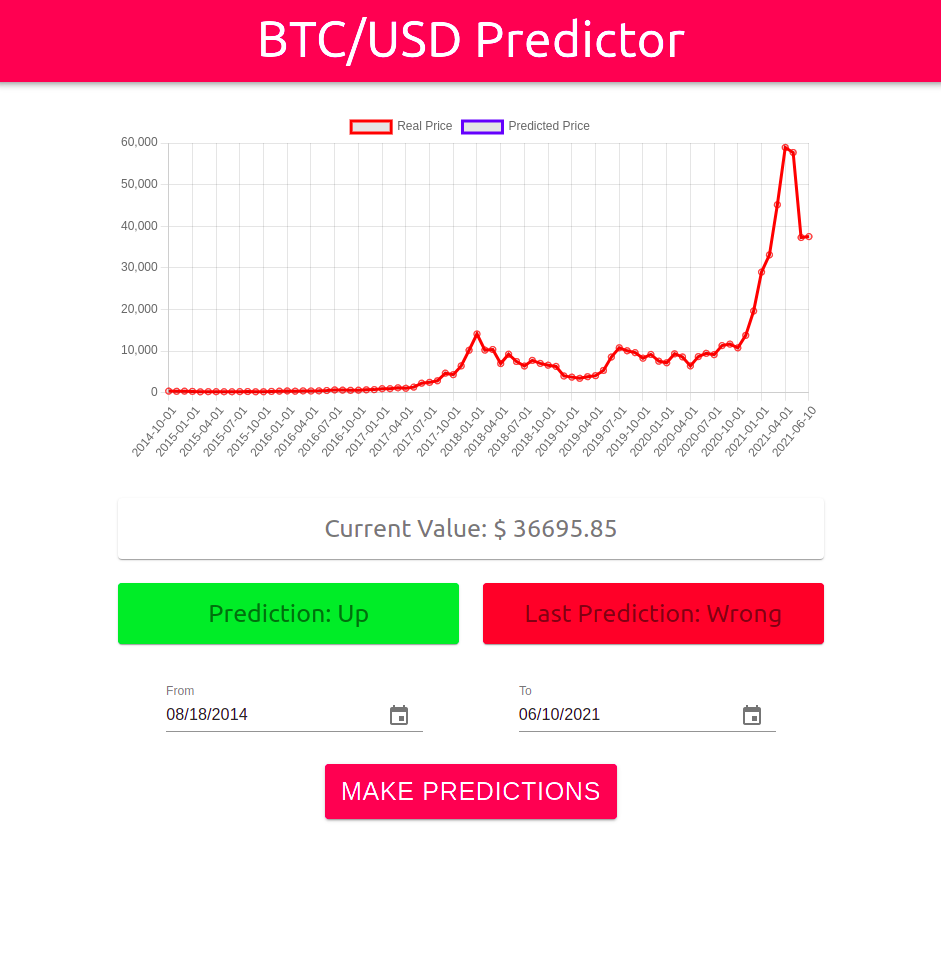
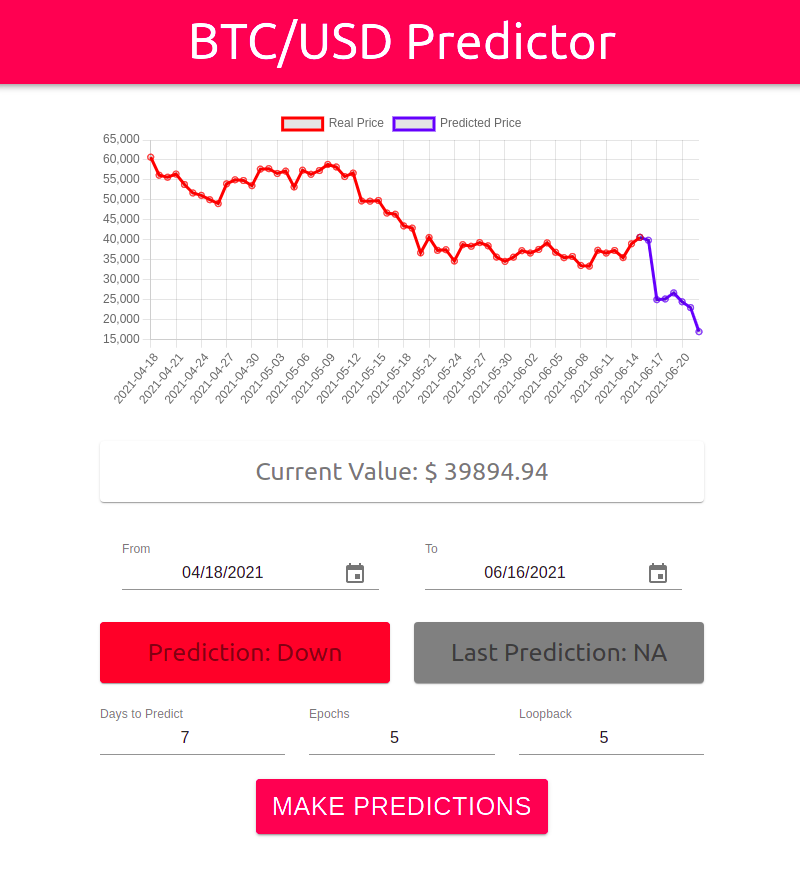
Added Predictions for the next N days

diff --git a/frontend/src/App/App.js b/frontend/src/App/App.js
@@ -2,12 +2,14 @@ import "./App.css";
 import React from "react";
 import { Line } from "react-chartjs-2";
 import { useState, useEffect } from "react";
-import { AppBar, Button } from "@material-ui/core";
+import { AppBar, Button, TextField } from "@material-ui/core";
 import Paper from "@material-ui/core/Paper";
 import Grid from "@material-ui/core/Grid";
+import CircularProgress from "@material-ui/core/CircularProgress";
 import { makeStyles } from "@material-ui/core/styles";
 import DateFnsUtils from "@date-io/date-fns";
 import { MuiPickersUtilsProvider, KeyboardDatePicker } from "@material-ui/pickers";
+import { set } from "date-fns";
 
 const useStyles = makeStyles((theme) => ({
   root: {
@@ -30,12 +32,22 @@ const useStyles = makeStyles((theme) => ({
     fontSize: "25px",
     background: "#FF3333",
   },
+  greyPaper: {
+    padding: theme.spacing(2),
+    textAlign: "center",
+    color: theme.palette.text.secondary,
+    fontSize: "25px",
+    background: "grey",
+  },
   greenPaper: {
     padding: theme.spacing(2),
     textAlign: "center",
     color: theme.palette.text.secondary,
     fontSize: "25px",
     background: "#00CC00",
+  },
+  margin: {
+    margin: theme.spacing(1),
   },
 }));
 
@@ -62,8 +74,13 @@ function App() {
   const [data, setData] = useState({});
   const [btcPrice, setBtcPrice] = useState(0);
   const [height, setHeight] = useState(window.innerHeight / 1.8);
-  const [selectedDateFrom, setSelectedDateFrom] = React.useState(new Date("2014-08-18T21:11:54"));
+  const [selectedDateFrom, setSelectedDateFrom] = React.useState(new Date("2021-04-18T21:11:54"));
   const [selectedDateTo, setSelectedDateTo] = React.useState(new Date());
+  const [epochs, setEpochs] = useState(3);
+  const [predictDays, setPredictDays] = useState(7);
+  const [loopback, setLoopback] = useState(5);
+  const [predictionBool, setPredictionBool] = useState(true);
+  const [buttonIsDisabled, setButtonIsDisabled] = useState(false);
 
   const fetchNewDates = (startDate, endDate) => {
     fetch(
@@ -75,6 +92,33 @@ function App() {
     )
       .then((a) => a.json())
       .then((a) => setData(a))
+      .catch((e) => {
+        console.log(e.status);
+      });
+  };
+
+  const makePredictions = () => {
+    setButtonIsDisabled(true);
+    fetch(
+      "http://localhost:5000/prediction?" +
+        new URLSearchParams({
+          epochs: epochs,
+          predictionDays: predictDays,
+          loopBack: loopback,
+        })
+    )
+      .then((a) => a.json())
+      .then((a) => {
+        let index1 = a["datasets"][0]["data"].length;
+        let index2 = a["datasets"][1]["data"].length;
+        if (parseInt(a["datasets"][0]["data"][index1 - 1], 10) >= parseInt(a["datasets"][1]["data"][index2 - 1], 10)) {
+          setPredictionBool(false);
+        } else {
+          setPredictionBool(true);
+        }
+        setButtonIsDisabled(false);
+        setData(a);
+      })
       .catch((e) => {
         console.log(e.status);
       });
@@ -105,12 +149,19 @@ function App() {
   const classes = useStyles();
 
   useEffect(() => {
-    fetch("http://localhost:5000/data", {
-      method: "GET",
-      headers: {
-        "Content-Type": "application/json",
-      },
-    })
+    fetch(
+      "http://localhost:5000/data?" +
+        new URLSearchParams({
+          startDate: formatDate(selectedDateFrom),
+          endDate: formatDate(selectedDateTo),
+        }),
+      {
+        method: "GET",
+        headers: {
+          "Content-Type": "application/json",
+        },
+      }
+    )
       .then((a) => a.json())
       .then((a) => setData(a))
       .catch((e) => {
@@ -166,12 +217,6 @@ function App() {
               <Grid item xs={12}>
                 <Paper className={classes.paper}>Current Value: $ {btcPrice}</Paper>
               </Grid>
-              <Grid item xs={6}>
-                <Paper className={classes.greenPaper}>Prediction: Up</Paper>
-              </Grid>
-              <Grid item xs={6}>
-                <Paper className={classes.redPaper}>Last Prediction: Wrong</Paper>
-              </Grid>
               <Grid item xs={12}>
                 <MuiPickersUtilsProvider utils={DateFnsUtils}>
                   <Grid container justify="space-around">
@@ -204,10 +249,48 @@ function App() {
                   </Grid>
                 </MuiPickersUtilsProvider>
               </Grid>
+              <Grid item xs={6}>
+                <Paper className={predictionBool == true ? classes.greenPaper : classes.redPaper}>
+                  Prediction: {predictionBool == true ? "Up" : "Down"}{" "}
+                </Paper>
+              </Grid>
+              <Grid item xs={6}>
+                <Paper className={classes.greyPaper}>Last Prediction: NA</Paper>
+              </Grid>
+              <Grid item xs={4}>
+                {}
+                <TextField
+                  type="number"
+                  onChange={(e) => setPredictDays(e.target.value)}
+                  label="Days to Predict"
+                  value={predictDays}
+                />
+              </Grid>
+              <Grid item xs={4}>
+                <TextField type="number" onChange={(e) => setEpochs(e.target.value)} label="Epochs" value={epochs} />
+              </Grid>
+              <Grid item xs={4}>
+                <TextField
+                  type="number"
+                  onChange={(e) => setLoopback(e.target.value)}
+                  label="Loopback"
+                  value={loopback}
+                />
+              </Grid>
               <Grid item xs={12} style={{ textAlign: "center" }}>
-                <Button className={classes.button} variant="contained" color="secondary">
+                <Button
+                  id="button_make_prediction"
+                  className={classes.button}
+                  variant="contained"
+                  color="secondary"
+                  onClick={() => makePredictions()}
+                  disabled={buttonIsDisabled}
+                >
                   Make Predictions
                 </Button>
+              </Grid>
+              <Grid item xs={12} style={{ textAlign: "center" }}>
+                <CircularProgress color="secondary" variant="indeterminate" size={buttonIsDisabled == false ? 0 : 40} />
               </Grid>
             </Grid>
           </div>

diff --git a/frontend/src/App/App.css b/frontend/src/App/App.css
@@ -22,3 +22,7 @@ footer {
   padding: 15px;
   text-align: center;
 }
+
+input {
+  text-align: center;
+}

diff --git a/backend/predict.py b/backend/predict.py
@@ -1,0 +1,94 @@
+# https://towardsdatascience.com/time-series-forecasting-with-recurrent-neural-networks-74674e289816
+
+import pandas as pd
+import numpy as np
+import tensorflow as tf
+from tensorflow.keras.preprocessing.sequence import TimeseriesGenerator
+import os
+import matplotlib.pyplot as plt
+from tensorflow.keras.models import Sequential
+from tensorflow.keras.layers import LSTM, Dense, Dropout, Bidirectional
+import plotly.graph_objects as go
+import datetime
+
+def predict(num_prediction, look_back, epochs):
+    os.environ['TF_CPP_MIN_LOG_LEVEL'] = '2'
+    PATHTOFILE = '../data/BTC-USD-daily.csv'
+    
+    df = pd.read_table(PATHTOFILE, delimiter=',')
+    
+    df['Date'] = pd.to_datetime(df['Date'])
+    df.set_axis(df['Date'], inplace=True)
+    df.drop(columns=['Open', 'High', 'Low', 'Volume'], inplace=True)
+    
+    close_data = df['Close'].values
+    close_data = close_data.reshape((-1,1))
+    
+    # 80% for training, 20% for testing
+    split_percent = 0.80
+    split = int(split_percent*len(close_data))
+    
+    close_train = close_data[:split]
+    close_test = close_data[split:]
+    
+    date_train = df['Date'][:split]
+    date_test = df['Date'][split:]
+            
+    train_generator = TimeseriesGenerator(close_train, close_train, length=look_back, batch_size=20)     
+    test_generator = TimeseriesGenerator(close_test, close_test, length=look_back, batch_size=1)
+    
+    model = Sequential()
+    model.add(LSTM(units=60, activation='relu', input_shape=(look_back, 1), return_sequences=True))
+    model.add(Dropout(0.2))
+    
+    model.add(LSTM(units=60, activation='relu', return_sequences=True))
+    model.add(Dropout(0.2))
+    
+    model.add(LSTM(units=80, activation='relu', return_sequences=True))
+    model.add(Dropout(0.2))
+    
+    model.add(LSTM(units=120, activation='relu'))
+    
+    model.add(Dense(units=1))
+    model.compile(optimizer='adam', loss='mse')
+    model.fit(train_generator, epochs=epochs, verbose=1, batch_size=64)
+    
+    prediction = model.predict(test_generator)
+    
+    close_train = close_train.reshape((-1))
+    close_test = close_test.reshape((-1))
+    prediction = prediction.reshape((-1))
+    
+    close_data = close_data.reshape((-1))
+    
+    def predict(num_prediction, model):
+        prediction_list = close_data[-look_back:]
+    
+        for _ in range(num_prediction):
+            x = prediction_list[-look_back:]
+            x = x.reshape((1, look_back, 1))
+            out = model.predict(x)[0][0]
+            prediction_list = np.append(prediction_list, out)
+        prediction_list = prediction_list[look_back-1:]
+        
+        predictions = []
+        for i in prediction_list:
+            predictions.append(str(i))
+
+        return predictions
+    
+    def predict_dates(num_prediction):
+        last_date = df['Date'].values[-1]
+        prediction_dates = pd.date_range(last_date, periods=num_prediction+1).tolist()
+        dates = []
+        for i in prediction_dates:
+            dates.append(str(i).split(' ')[0])
+        return dates
+    
+    forecast = predict(num_prediction, model)
+    forecast_dates = predict_dates(num_prediction)
+    names = ["labels", "prices"]
+    arrays = [forecast_dates, forecast]
+    dictOut = dict(zip(names, arrays))
+    print(dictOut)
+    return dictOut

diff --git a/backend/main.py b/backend/main.py
@@ -1,6 +1,7 @@
 from flask import Flask, Response, jsonify, json, request
 from flask_cors import CORS, cross_origin
 from read_data import readData
+from predict import predict
 import datetime
 
 app = Flask(__name__)
@@ -50,6 +51,29 @@ def getData():
     resp = Response(json.dumps(data))
     resp.headers['Access-Control-Allow-Origin'] = '*'
     return resp
+
+@app.route('/prediction', methods=['GET'])
+def makePrediction():
+    num_prediction = int(request.args.get('predictionDays'))
+    look_back = int(request.args.get('loopBack'))
+    epochs = int(request.args.get('epochs'))
+    
+    data1 = predict(num_prediction, look_back, epochs)
+    for i in data1["labels"]:
+        if(i not in data["labels"]):
+            data["labels"].append(i)
+    
+    data["datasets"][1]["data"] = data1["prices"]
+
+    data["datasets"][1]["data"].insert(0, data["datasets"][0]["data"][-1])
+    for _ in range(len(data["datasets"][0]["data"]) - 1):
+        data["datasets"][1]["data"].insert(0, "null")
+
+    resp = Response(json.dumps(data))
+    resp.headers['Access-Control-Allow-Origin'] = '*'
+    data["datasets"][1]["data"] = []
+    return resp
+
 
 if __name__ == "__main__":
     app.run(debug=True)

diff --git a/backend/read_data.py b/backend/read_data.py
@@ -2,7 +2,7 @@ import pandas as pd
 import datetime
 
 def readData(start = datetime.datetime(2014, 10, 1).date(), end = datetime.datetime.now().date()):
-    df = pd.read_table("../data/BTC-USD-monthly.csv")
+    df = pd.read_table("../data/BTC-USD-daily.csv")
     data = df.to_numpy()
     dates = []
     prices = []
